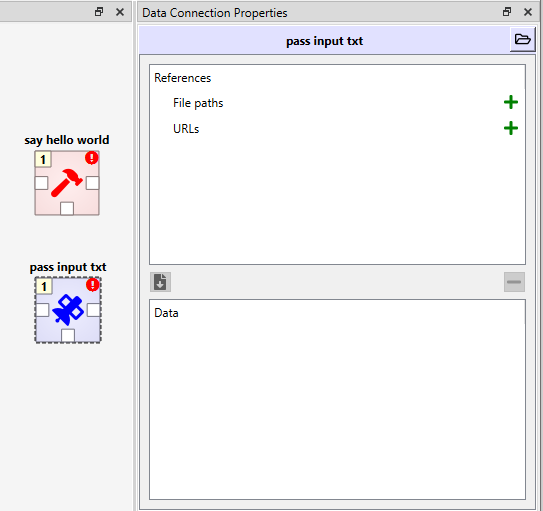
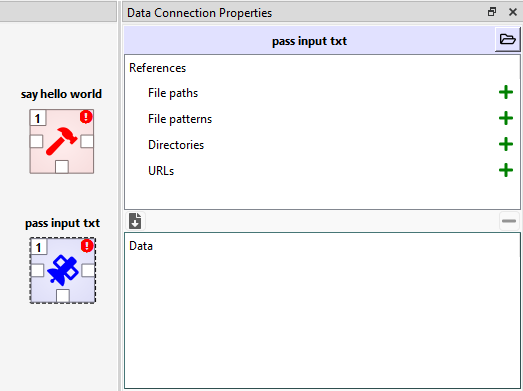
Update documentation
Data Connection now supports directory references
and the references can be modified.

Re #3178

Changed region(s): [[0.0, 0.0, 1.0, 1.0]]

diff --git a/CHANGELOG.md b/CHANGELOG.md
@@ -7,6 +7,13 @@ The format is based on [Keep a Changelog](http://keepachangelog.com/en/1.1.0/)
 
 ### Added
 
+- Data Connection: it is now possible to add references to directories to Data Connection items.
+  They may be useful as command line arguments to Tools.
+- Data Connection: it is now possible to add file patterns, i.e. references to contents of given directory
+  using wildcards. They can be used, among other things, as Optional input files for Tools.
+- Data Connection: references can now be modified by right-clicking them and selecting **Select another...**
+  from the popup menu.
+
 ### Changed
 
 ### Deprecated

diff --git a/docs/source/project_items.rst b/docs/source/project_items.rst
@@ -66,9 +66,9 @@ The following items are currently available:
 Data Connection |data_connection|
 =================================
 
-A Data connection item provides access to data files.
-The item has two categories of files: **references** connect to
-files anywhere on the file system or on remote (non-Spine) databases while
+A Data connection item provides access to data.
+The item has two categories of data: **references** connect to
+files or directories anywhere on the file system and to remote (non-Spine) databases while
 **data** files reside in the item's own data directory.
 
 Data Store |data_store|
